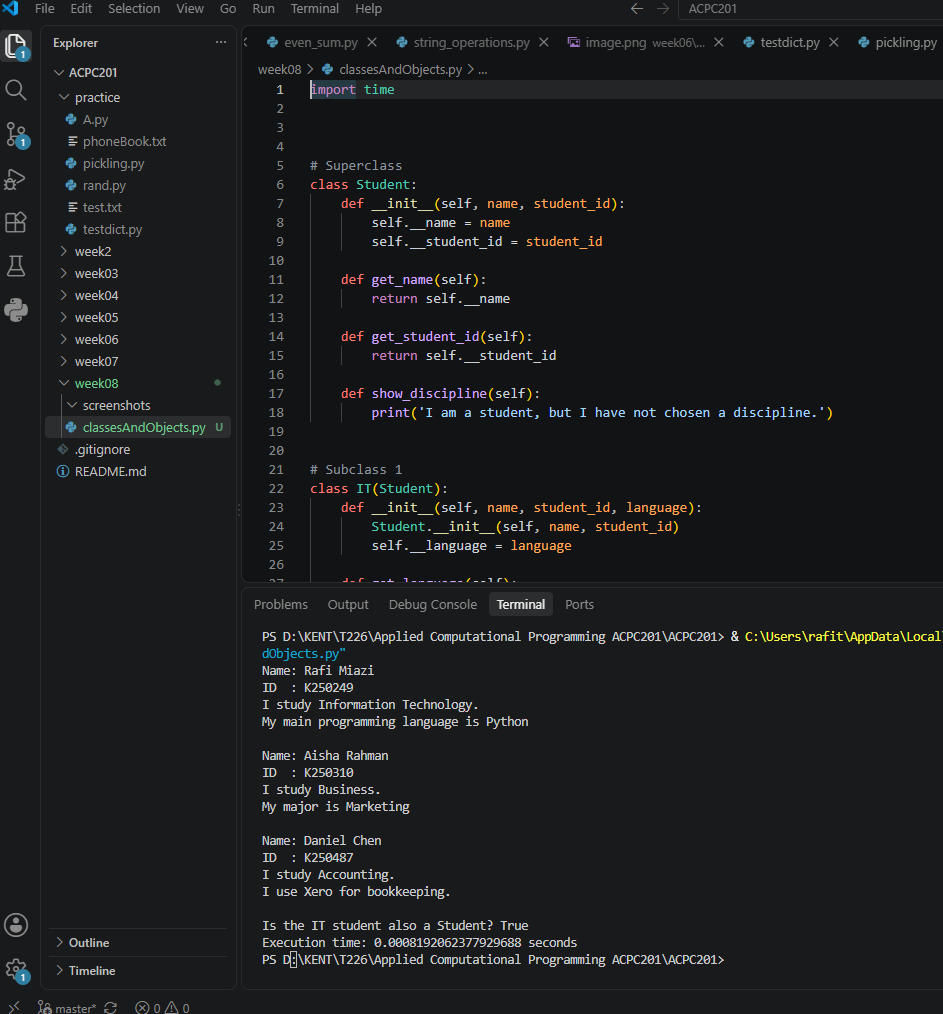
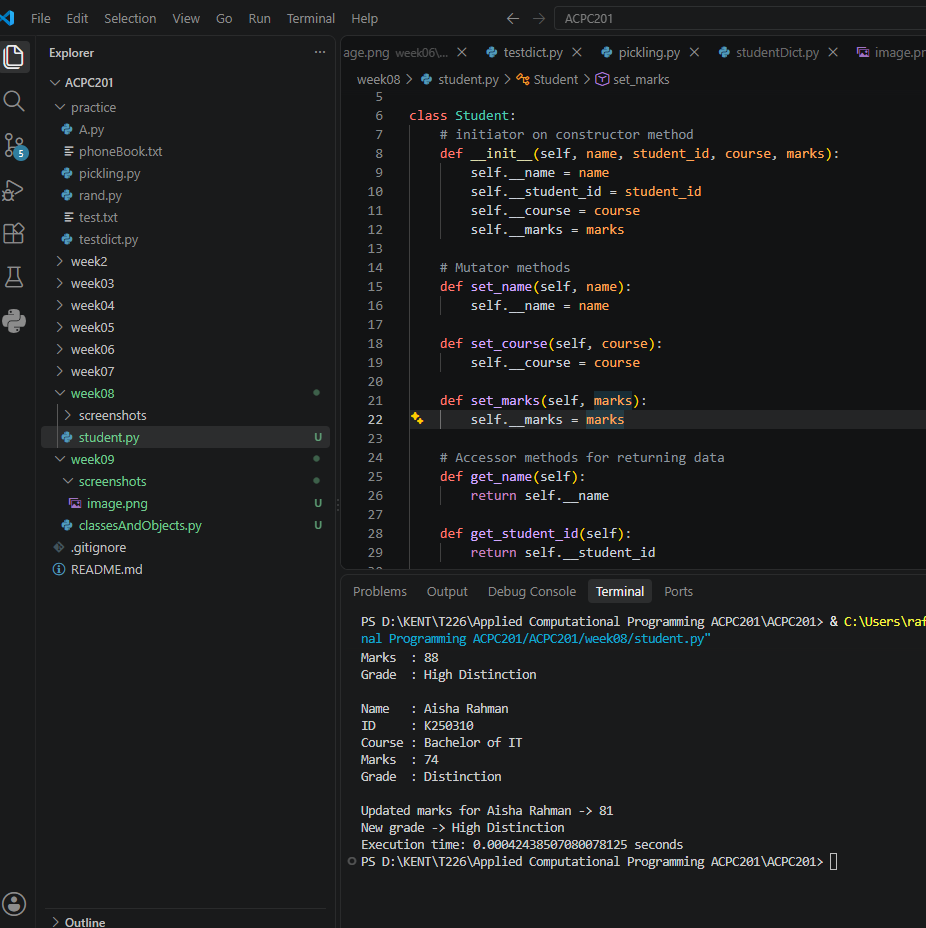
week 09

diff --git a/week08/student.py b/week08/student.py
@@ -1,0 +1,77 @@
+
+
+import time
+
+
+class Student:
+    # initiator on constructor method
+    def __init__(self, name, student_id, course, marks):
+        self.__name = name                 
+        self.__student_id = student_id
+        self.__course = course
+        self.__marks = marks
+
+    # Mutator methods 
+    def set_name(self, name):
+        self.__name = name
+
+    def set_course(self, course):
+        self.__course = course
+
+    def set_marks(self, marks):
+        self.__marks = marks
+
+    # Accessor methods for returning data
+    def get_name(self):
+        return self.__name
+
+    def get_student_id(self):
+        return self.__student_id
+
+    def get_course(self):
+        return self.__course
+
+    def get_marks(self):
+        return self.__marks
+
+    def get_grade(self):
+        if self.__marks >= 80:
+            return 'High Distinction'
+        elif self.__marks >= 70:
+            return 'Distinction'
+        elif self.__marks >= 50:
+            return 'Pass'
+        else:
+            return 'Fail'
+
+    # __str__  method for custom print fkuntion output
+    def __str__(self):
+        return ('Name   : ' + self.__name + '\n' +
+                'ID     : ' + self.__student_id + '\n' +
+                'Course : ' + self.__course + '\n' +
+                'Marks  : ' + str(self.__marks) + '\n' +
+                'Grade  : ' + self.get_grade())
+
+
+def main():
+    start = time.time()
+    # Creating objects from the student class
+    student1 = Student('Rafi Miazi', 'K250249', 'Bachelor of IT', 88)
+    student2 = Student('Aisha Rahman', 'K250310', 'Bachelor of IT', 74)
+
+    print(student1)
+    print()
+    print(student2)
+
+    # Using a mutator to change the data, then an accessor to read it back
+    student2.set_marks(81)
+    print()
+    print('Updated marks for', student2.get_name(), '->', student2.get_marks())
+    print('New grade ->', student2.get_grade())
+
+    end = time.time()
+    print('Execution time:', end - start, 'seconds')
+
+
+if __name__ == '__main__':
+    main()
